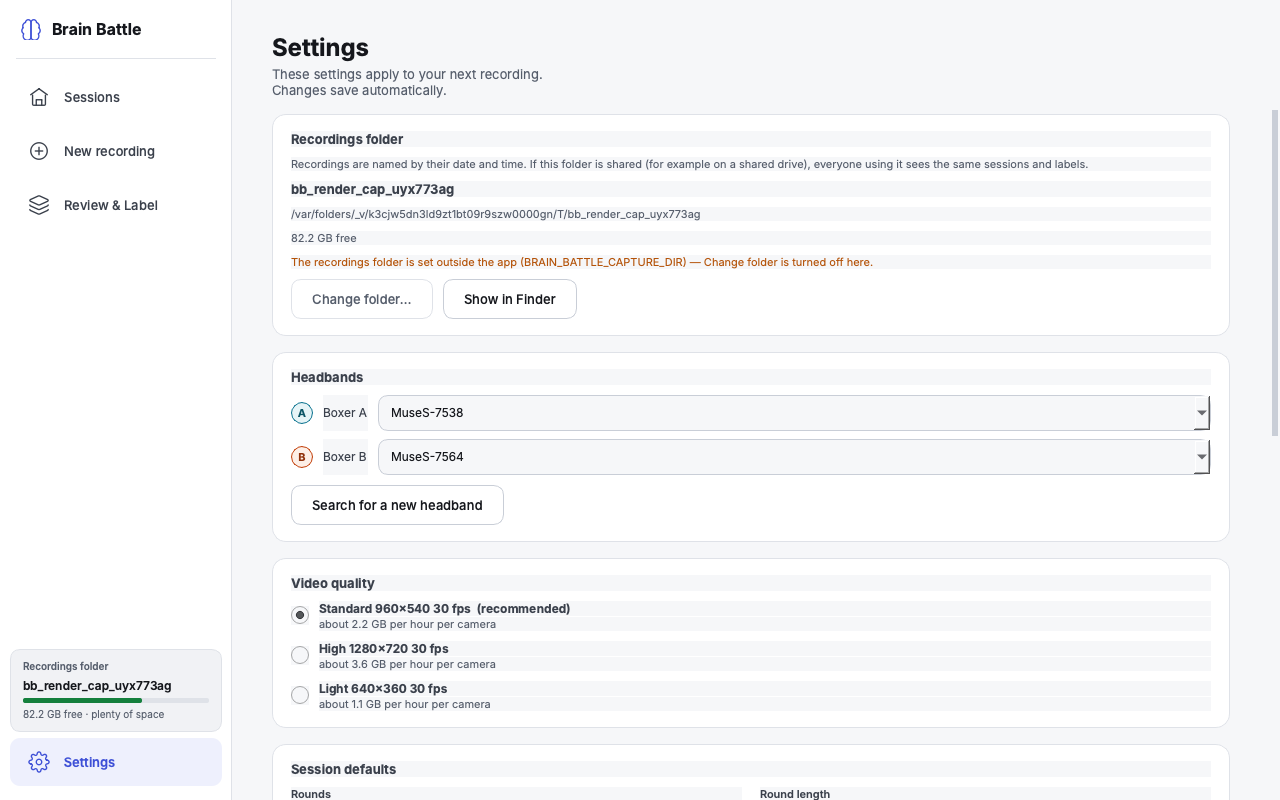
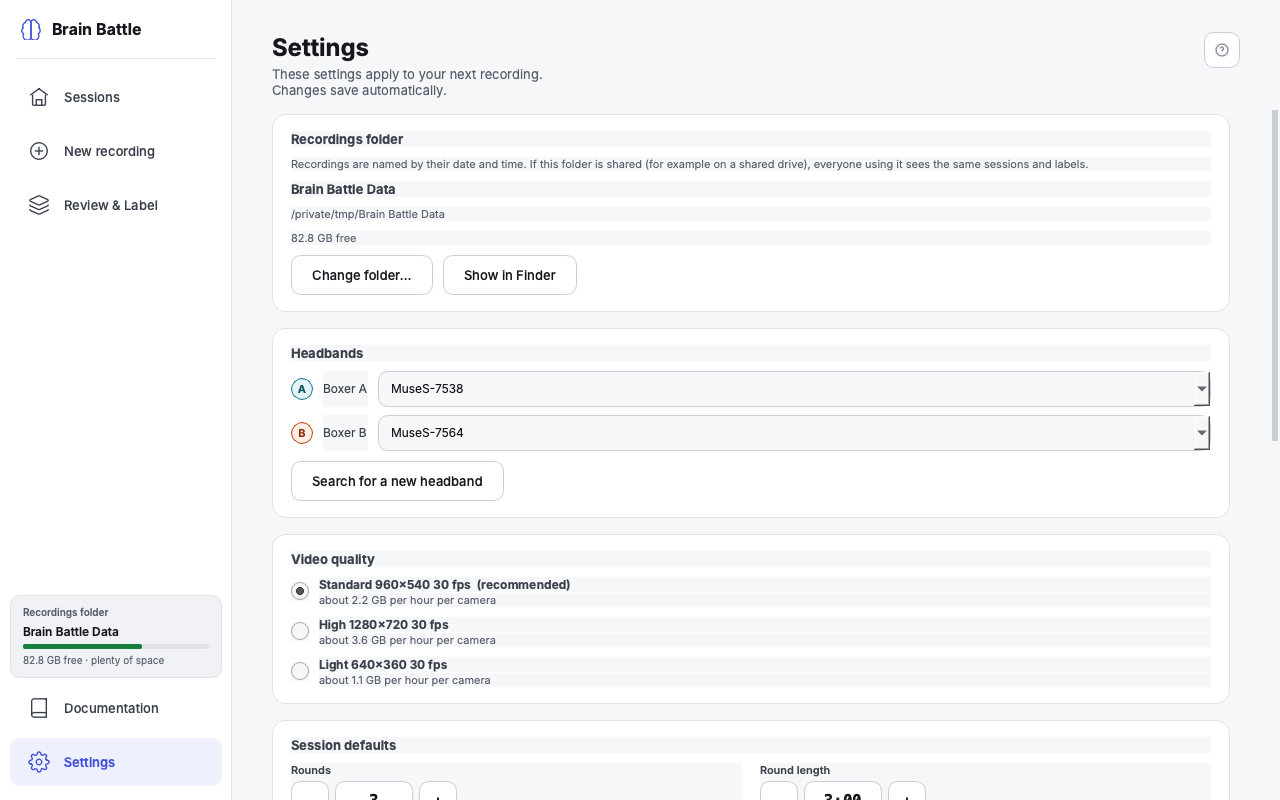
Docs screenshots: realistic 'Brain Battle Data' folder + status library
render_screens.py --docs now points the app at a cleanly-named recordings
folder ('Brain Battle Data'), configured as a normal saved setting (not the
BRAIN_BATTLE_CAPTURE_DIR override, which would show Settings' 'set outside the
app' note), and fills it with a small demo library via the generator (run as
an isolated subprocess — its ProcessPool would otherwise re-import this
module). The Sessions image now shows several real statuses (Needs labelling,
Labelled, Exported, Interrupted) and no throwaway temp-folder name appears in
any committed image. Temp folders are used; the real Captures folder is
untouched.

diff --git a/tools/render_screens.py b/tools/render_screens.py
@@ -31,14 +31,43 @@ sys.path.insert(0, ROOT)
 
 os.environ.setdefault("QT_QPA_PLATFORM", "offscreen")
 os.environ["BRAIN_BATTLE_SIMULATE"] = "1"
-_TMP_CAP = tempfile.mkdtemp(prefix="bb_render_cap_")
-_TMP_CFG = os.path.join(tempfile.mkdtemp(prefix="bb_render_cfg_"), "settings.json")
-os.environ["BRAIN_BATTLE_CAPTURE_DIR"] = _TMP_CAP
-os.environ["BRAIN_BATTLE_CONFIG"] = _TMP_CFG
-
-from PyQt6.QtWidgets import QApplication
 
 DOCS_MODE = "--docs" in sys.argv
+
+# The committed doc images must show a realistic recordings folder — a plain,
+# human-readable name, no throwaway temp-folder names (e.g. "bb_render_cap_ab12").
+# So docs mode points the app at a cleanly-named folder and configures it the
+# normal way (a saved setting), NOT via BRAIN_BATTLE_CAPTURE_DIR — the env
+# override would make Settings show its "set outside the app" note, which a
+# real user wouldn't see. `tests/test_docs.py` asserts this name is clean.
+DOCS_RECORDINGS_DIR = "/private/tmp/Brain Battle Data"
+
+_TMP_CFG = os.path.join(tempfile.mkdtemp(prefix="bb_render_cfg_"), "settings.json")
+os.environ["BRAIN_BATTLE_CONFIG"] = _TMP_CFG
+
+if DOCS_MODE:
+    # A normal saved-setting recordings folder, cleanly named, no env override.
+    shutil.rmtree(DOCS_RECORDINGS_DIR, ignore_errors=True)
+    os.makedirs(DOCS_RECORDINGS_DIR, exist_ok=True)
+    with open(_TMP_CFG, "w", encoding="utf-8") as _f:
+        import json as _json
+        _json.dump({"capture_dir": DOCS_RECORDINGS_DIR}, _f)
+    _TMP_CAP = DOCS_RECORDINGS_DIR
+    # Fill it with a small demo library so the Sessions image shows several
+    # real statuses (Needs labelling, Labelled, Exported, Interrupted). Run
+    # the generator as an isolated SUBPROCESS: it uses a ProcessPoolExecutor,
+    # whose spawned workers would otherwise re-import this module (and its
+    # QApplication setup). --force bypasses the generator's refuse-real-folder
+    # guard (the configured folder here is this very temp folder).
+    import subprocess as _sp
+    _gen = os.path.join(os.path.dirname(os.path.abspath(__file__)), "generate_demo_session.py")
+    _sp.run([sys.executable, _gen, "--out", DOCS_RECORDINGS_DIR, "--library", "--force"],
+            check=True)
+else:
+    _TMP_CAP = tempfile.mkdtemp(prefix="bb_render_cap_")
+    os.environ["BRAIN_BATTLE_CAPTURE_DIR"] = _TMP_CAP
+
+from PyQt6.QtWidgets import QApplication
 _out_args = [a for a in sys.argv[1:] if not a.startswith("--")]
 OUT = _out_args[0] if _out_args else (
     os.path.join(ROOT, "docs", "images") if DOCS_MODE else os.path.join(ROOT, "screens"))
